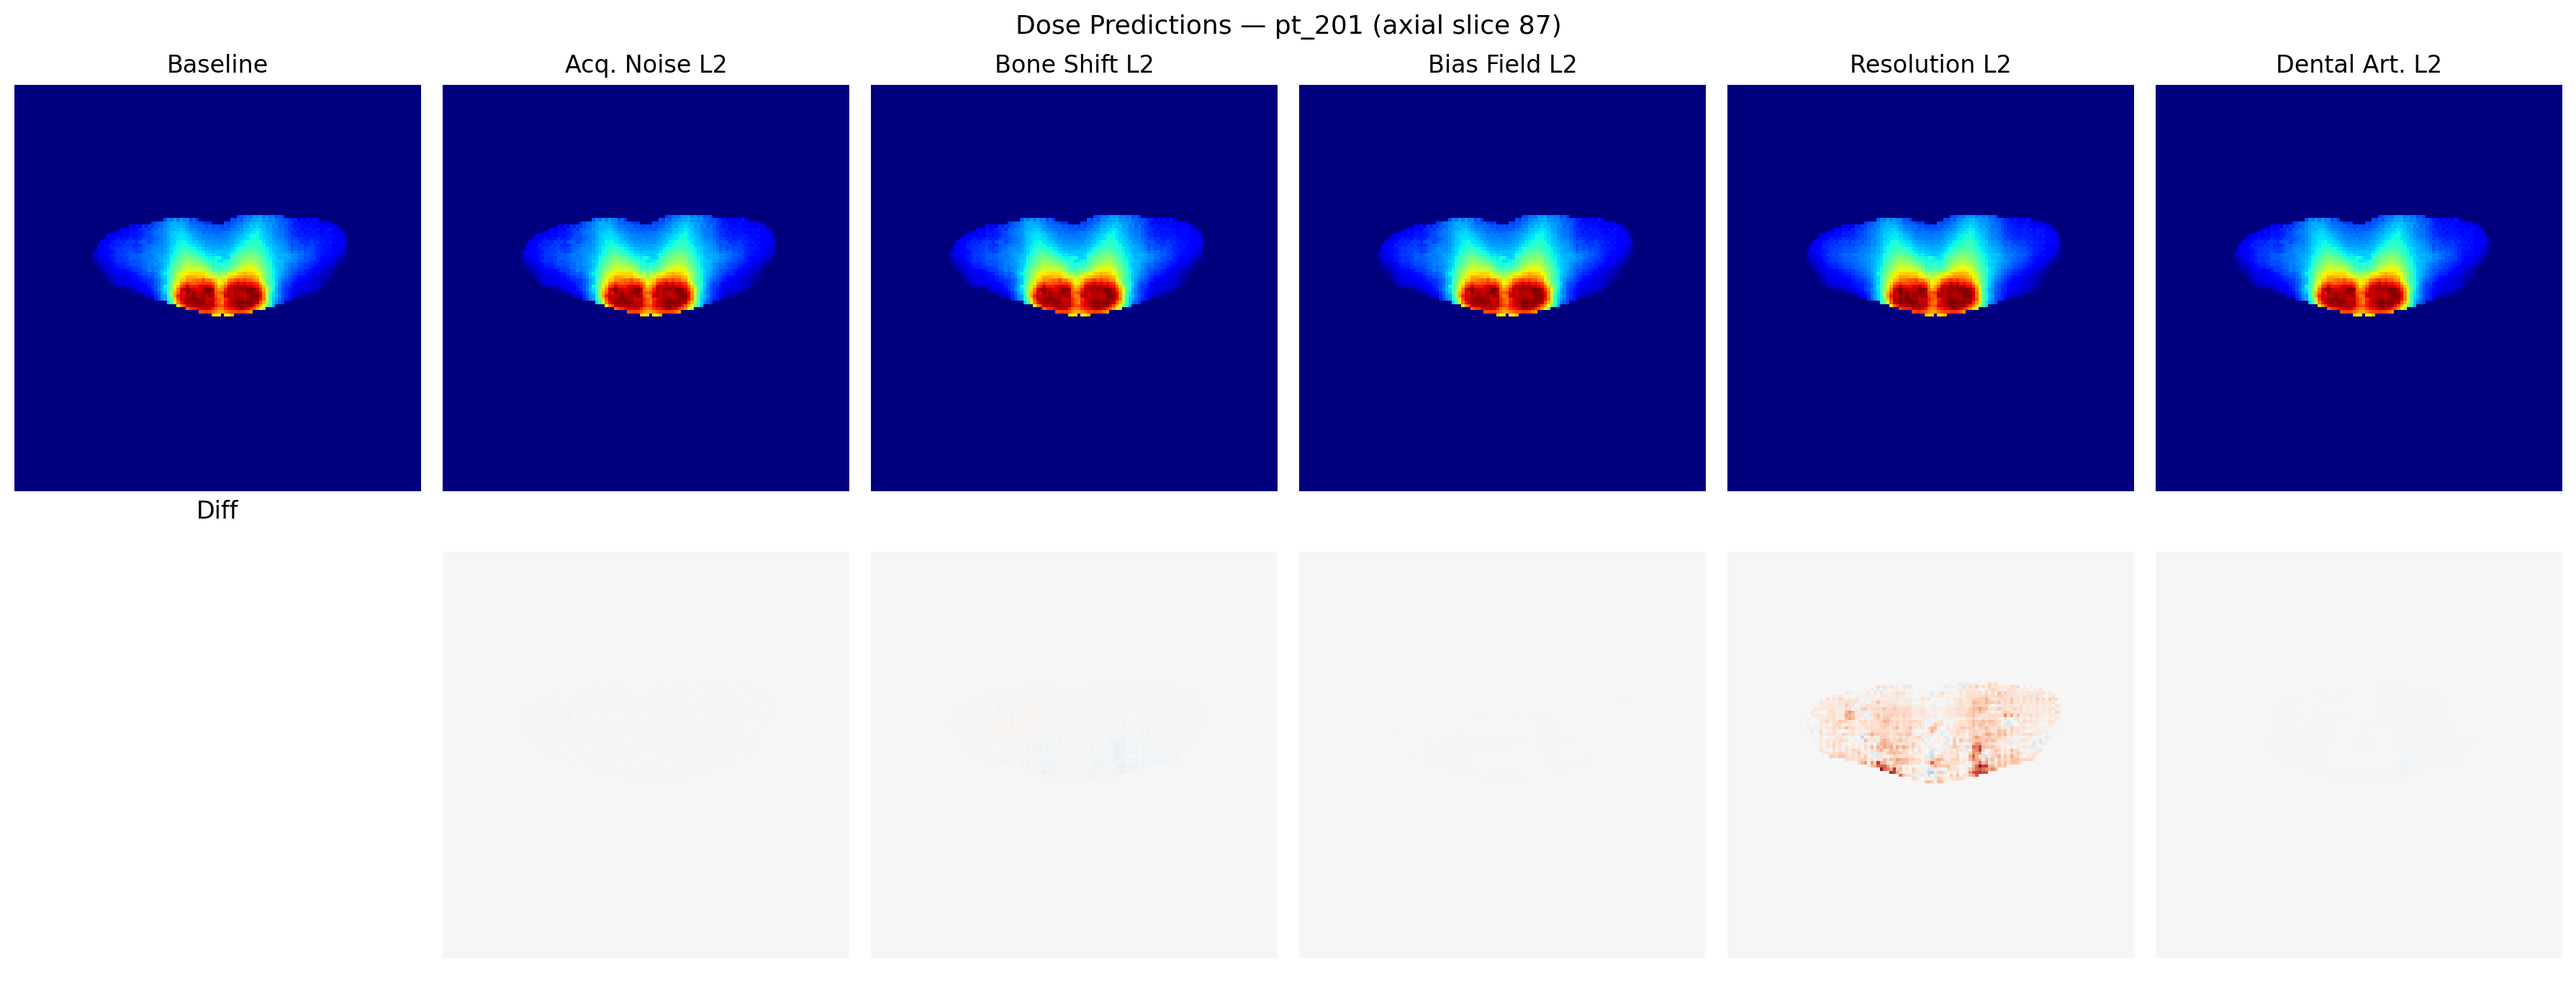
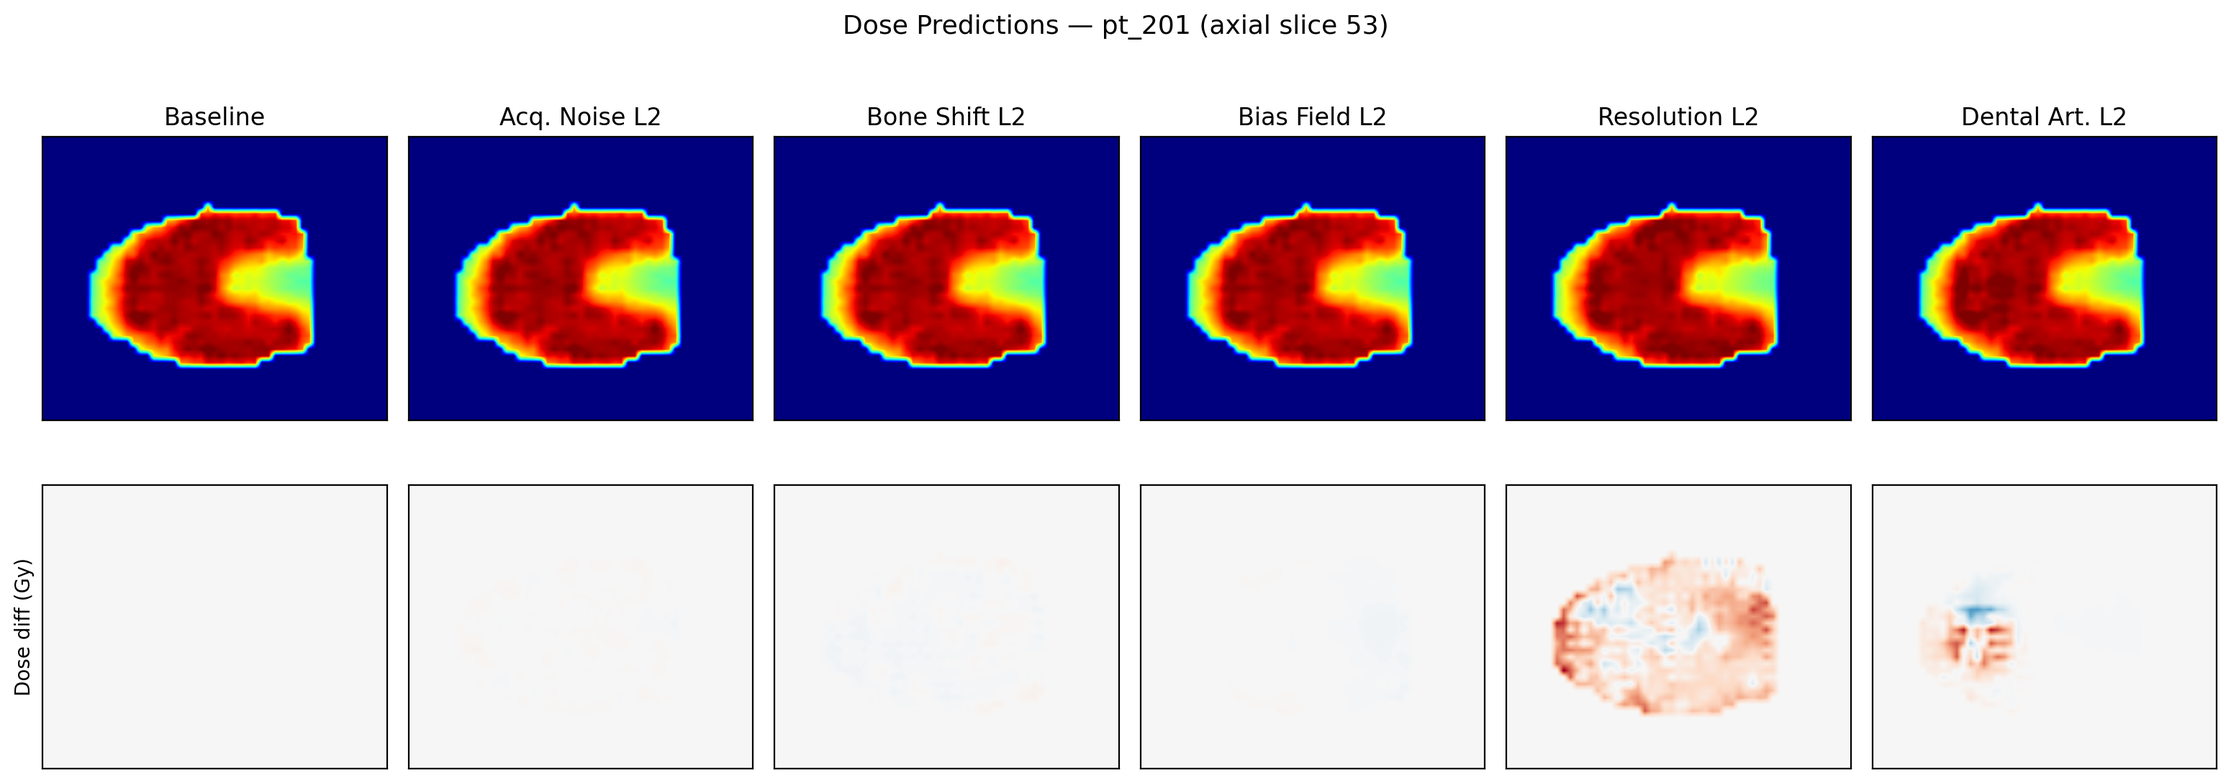
Regenerate axial figures to match the AAPM adversarial figure recipe exactly
Birjoo: the panels didn't match the accepted adversarial figure. Root cause: my
first regen used the max-DOSE slice (87, neck/shoulders), no crop, and a different
transpose. Now replicate save_adversarial_ct_figures.py precisely:
- slice = max-PTV-area S-I index (53, through the target) via the PTV masks
- crop to the body bounding box (drop the air border)
- render imshow(img.T, origin="lower") in the true-HU soft-tissue window (40+/-200)
Result is a clean, cropped axial head cross-section matching the adversarial poster
figure; Resolution is clearly the dominant perturbation. Dose figure uses the same
slice/crop/orientation path. CT figure visually verified.

diff --git a/reports/report2_ct_perturbation/astro_poster/regen_axial_figures.py b/reports/report2_ct_perturbation/astro_poster/regen_axial_figures.py
@@ -1,10 +1,11 @@
 #!/usr/bin/env python3
-"""Regenerate ct_slices + dose_difference_maps as TRUE AXIAL (transverse) slices, no GPU.
+"""Regenerate ct_slices + dose_difference_maps as TRUE AXIAL slices, matching the AAPM adversarial
+figure's exact orientation/recipe (save_adversarial_ct_figures.py), no GPU.
 
-Reads OpenKBP CTs, perturbed CTs, and the already-computed prediction CSVs straight from the
-SanDisk warehouse (CPU only, pandas/matplotlib). OpenKBP raw axes are (A-P, L-R, S-I); an axial
-slice fixes S-I (axis 2). We pick the S-I slice carrying the most dose so the panel shows the
-treated region. Outputs to /tmp first for visual orientation check.
+Reads OpenKBP CTs, perturbed CTs, PTV masks, and the already-computed prediction CSVs from the
+SanDisk warehouse (CPU only). Axes (D,H,W)=(A-P,L-R,S-I); axial slice = (D,H) at the max-PTV-area
+S-I index; crop to the body bbox; display imshow(img.T, origin='lower') so anatomy fills the frame
+exactly like the adversarial poster figure.
 """
 import os
 import numpy as np
@@ -18,63 +19,98 @@ VAL = f"{SD}/provided-data/validation-pats"
 PERT = f"{SD}/openkbp_hn_robustness/data_perturbed"
 PRED = f"{SD}/openkbp_hn_robustness/predictions"
 SHAPE = (128, 128, 128)
-PID = "pt_201"
-LEVEL = "L2"
+PID, LEVEL = "pt_201", "L2"
+CT_MAX, HU_OFFSET = 4095.0, 1024.0
+WIN_LO, WIN_HI = 40.0 - 200.0, 40.0 + 200.0        # soft-tissue window (true HU), as in the AAPM fig
 FAMILIES = [("P1_noise", "Acq. Noise"), ("P2_bone_shift", "Bone Shift"),
             ("P3_bias_field", "Bias Field"), ("P4_resolution", "Resolution"),
             ("P5_dental", "Dental Art.")]
 OUT = "/tmp"
 
 
-def load_csv_vol(path):
+def load_vol(path):
     df = pd.read_csv(path, index_col=0)
     v = np.zeros(int(np.prod(SHAPE)))
     v[df.index.values] = df["data"].values
     return v.reshape(SHAPE)
 
 
-def axial(vol, idx):
-    """Axial (transverse) slice: fix S-I (axis 2) -> (A-P, L-R). flipud puts anterior at top."""
-    return np.flipud(vol[:, :, idx])
+def load_mask(path):
+    df = pd.read_csv(path, index_col=0)
+    m = np.zeros(int(np.prod(SHAPE)), dtype=bool)
+    m[np.array(df.index).squeeze()] = True
+    return m.reshape(SHAPE)
+
+
+def ptv_slice_index():
+    """S-I index (axis 2) with the largest total PTV area — the clinically relevant axial slice."""
+    area = np.zeros(SHAPE[2])
+    for name in ("PTV56", "PTV63", "PTV70"):
+        p = f"{VAL}/{PID}/{name}.csv"
+        if os.path.exists(p):
+            area += load_mask(p).sum(axis=(0, 1))
+    return int(np.argmax(area)) if area.any() else SHAPE[2] // 2
 
 
 def main():
-    base_ct = load_csv_vol(f"{VAL}/{PID}/ct.csv")
-    base_dose = load_csv_vol(f"{PRED}/baseline/{PID}.csv")
-    # choose the axial (S-I) index with the most dose -> shows the treated region
-    z = int(np.argmax(base_dose.sum(axis=(0, 1))))
-    print(f"axial S-I index (max-dose) = {z}")
+    w = ptv_slice_index()
+    print(f"axial S-I slice (max PTV area) = {w}")
+    base_ct = load_vol(f"{VAL}/{PID}/ct.csv")           # stored HU (trueHU + 1024)
+    base_dose = load_vol(f"{PRED}/baseline/{PID}.csv")  # Gy
+
+    def ax(vol):
+        return vol[:, :, w]                             # (D,H) axial slice
+
+    # crop to the body bbox (drop the air border) — computed from the CT
+    body = ax(base_ct) / CT_MAX > 0.12
+    ys, xs = np.where(body)
+    mg = 6
+    d0, d1 = max(ys.min() - mg, 0), min(ys.max() + mg + 1, body.shape[0])
+    h0, h1 = max(xs.min() - mg, 0), min(xs.max() + mg + 1, body.shape[1])
+    crop = lambda a: a[d0:d1, h0:h1]
+    hu = lambda a: crop(ax(a)) - HU_OFFSET              # display in true HU
+    show = lambda axi, img, **kw: axi.imshow(img.T, origin="lower", interpolation="bilinear", **kw)
+    body_c = crop(body).astype(float)
 
     # ---- CT slices ----
-    fig, ax = plt.subplots(2, len(FAMILIES) + 1, figsize=(3 * (len(FAMILIES) + 1), 7))
-    ax[0, 0].imshow(axial(base_ct, z), cmap="gray", vmin=0, vmax=2000, aspect="equal")
-    ax[0, 0].set_title("Original"); ax[0, 0].axis("off")
-    ax[1, 0].axis("off"); ax[1, 0].set_title("Diff")
+    n = len(FAMILIES) + 1
+    fig, A = plt.subplots(2, n, figsize=(2.6 * n, 6))
+    show(A[0, 0], hu(base_ct), cmap="gray", vmin=WIN_LO, vmax=WIN_HI)
+    A[0, 0].set_title("Original"); A[1, 0].set_ylabel("Difference (HU)")
+    for r in (0, 1):
+        A[r, 0].set_xticks([]); A[r, 0].set_yticks([])
+    A[1, 0].imshow(np.zeros_like(hu(base_ct)).T, origin="lower", cmap="seismic", vmin=-80, vmax=80)
     for i, (fam, lab) in enumerate(FAMILIES):
         c = i + 1
-        pv = load_csv_vol(f"{PERT}/{fam}/{LEVEL}/{PID}/ct.csv")
-        ax[0, c].imshow(axial(pv, z), cmap="gray", vmin=0, vmax=2000, aspect="equal")
-        ax[1, c].imshow(axial(pv, z) - axial(base_ct, z), cmap="RdBu_r", vmin=-200, vmax=200,
-                        aspect="equal")
-        ax[0, c].set_title(f"{lab} {LEVEL}"); ax[0, c].axis("off"); ax[1, c].axis("off")
-    fig.suptitle(f"Example CT Slices — {PID} (axial slice {z})", fontsize=13)
+        pv = load_vol(f"{PERT}/{fam}/{LEVEL}/{PID}/ct.csv")
+        show(A[0, c], hu(pv), cmap="gray", vmin=WIN_LO, vmax=WIN_HI)
+        diff = (crop(ax(pv)) - crop(ax(base_ct))) * body_c       # HU difference within body
+        show(A[1, c], diff, cmap="seismic", vmin=-80, vmax=80)
+        A[0, c].set_title(f"{lab} {LEVEL}")
+        for r in (0, 1):
+            A[r, c].set_xticks([]); A[r, c].set_yticks([])
+    fig.suptitle(f"Example CT Slices — {PID} (axial slice {w})", fontsize=13)
     fig.tight_layout(); fig.savefig(f"{OUT}/ct_slices_axial.png", dpi=200, bbox_inches="tight")
     plt.close(fig)
 
     # ---- Dose predictions ----
-    dmax = float(np.percentile(base_dose[base_dose > 0], 99)) if base_dose.max() > 0 else 70
-    fig, ax = plt.subplots(2, len(FAMILIES) + 1, figsize=(3 * (len(FAMILIES) + 1), 7))
-    ax[0, 0].imshow(axial(base_dose, z), cmap="jet", vmin=0, vmax=dmax, aspect="equal")
-    ax[0, 0].set_title("Baseline"); ax[0, 0].axis("off")
-    ax[1, 0].axis("off"); ax[1, 0].set_title("Diff")
+    dmax = float(np.percentile(base_dose[base_dose > 0], 99))
+    doseax = lambda a: crop(ax(a))
+    fig, A = plt.subplots(2, n, figsize=(2.6 * n, 6))
+    show(A[0, 0], doseax(base_dose), cmap="jet", vmin=0, vmax=dmax)
+    A[0, 0].set_title("Baseline"); A[1, 0].set_ylabel("Dose diff (Gy)")
+    for r in (0, 1):
+        A[r, 0].set_xticks([]); A[r, 0].set_yticks([])
+    A[1, 0].imshow(np.zeros_like(doseax(base_dose)).T, origin="lower", cmap="RdBu_r", vmin=-5, vmax=5)
     for i, (fam, lab) in enumerate(FAMILIES):
         c = i + 1
-        pd_ = load_csv_vol(f"{PRED}/{fam}/{LEVEL}/{PID}.csv")
-        ax[0, c].imshow(axial(pd_, z), cmap="jet", vmin=0, vmax=dmax, aspect="equal")
-        ax[1, c].imshow(axial(pd_, z) - axial(base_dose, z), cmap="RdBu_r", vmin=-5, vmax=5,
-                        aspect="equal")
-        ax[0, c].set_title(f"{lab} {LEVEL}"); ax[0, c].axis("off"); ax[1, c].axis("off")
-    fig.suptitle(f"Dose Predictions — {PID} (axial slice {z})", fontsize=13)
+        pdose = load_vol(f"{PRED}/{fam}/{LEVEL}/{PID}.csv")
+        show(A[0, c], doseax(pdose), cmap="jet", vmin=0, vmax=dmax)
+        show(A[1, c], doseax(pdose) - doseax(base_dose), cmap="RdBu_r", vmin=-5, vmax=5)
+        A[0, c].set_title(f"{lab} {LEVEL}")
+        for r in (0, 1):
+            A[r, c].set_xticks([]); A[r, c].set_yticks([])
+    fig.suptitle(f"Dose Predictions — {PID} (axial slice {w})", fontsize=13)
     fig.tight_layout(); fig.savefig(f"{OUT}/dose_difference_axial.png", dpi=200, bbox_inches="tight")
     plt.close(fig)
     print(f"wrote {OUT}/ct_slices_axial.png and {OUT}/dose_difference_axial.png")
